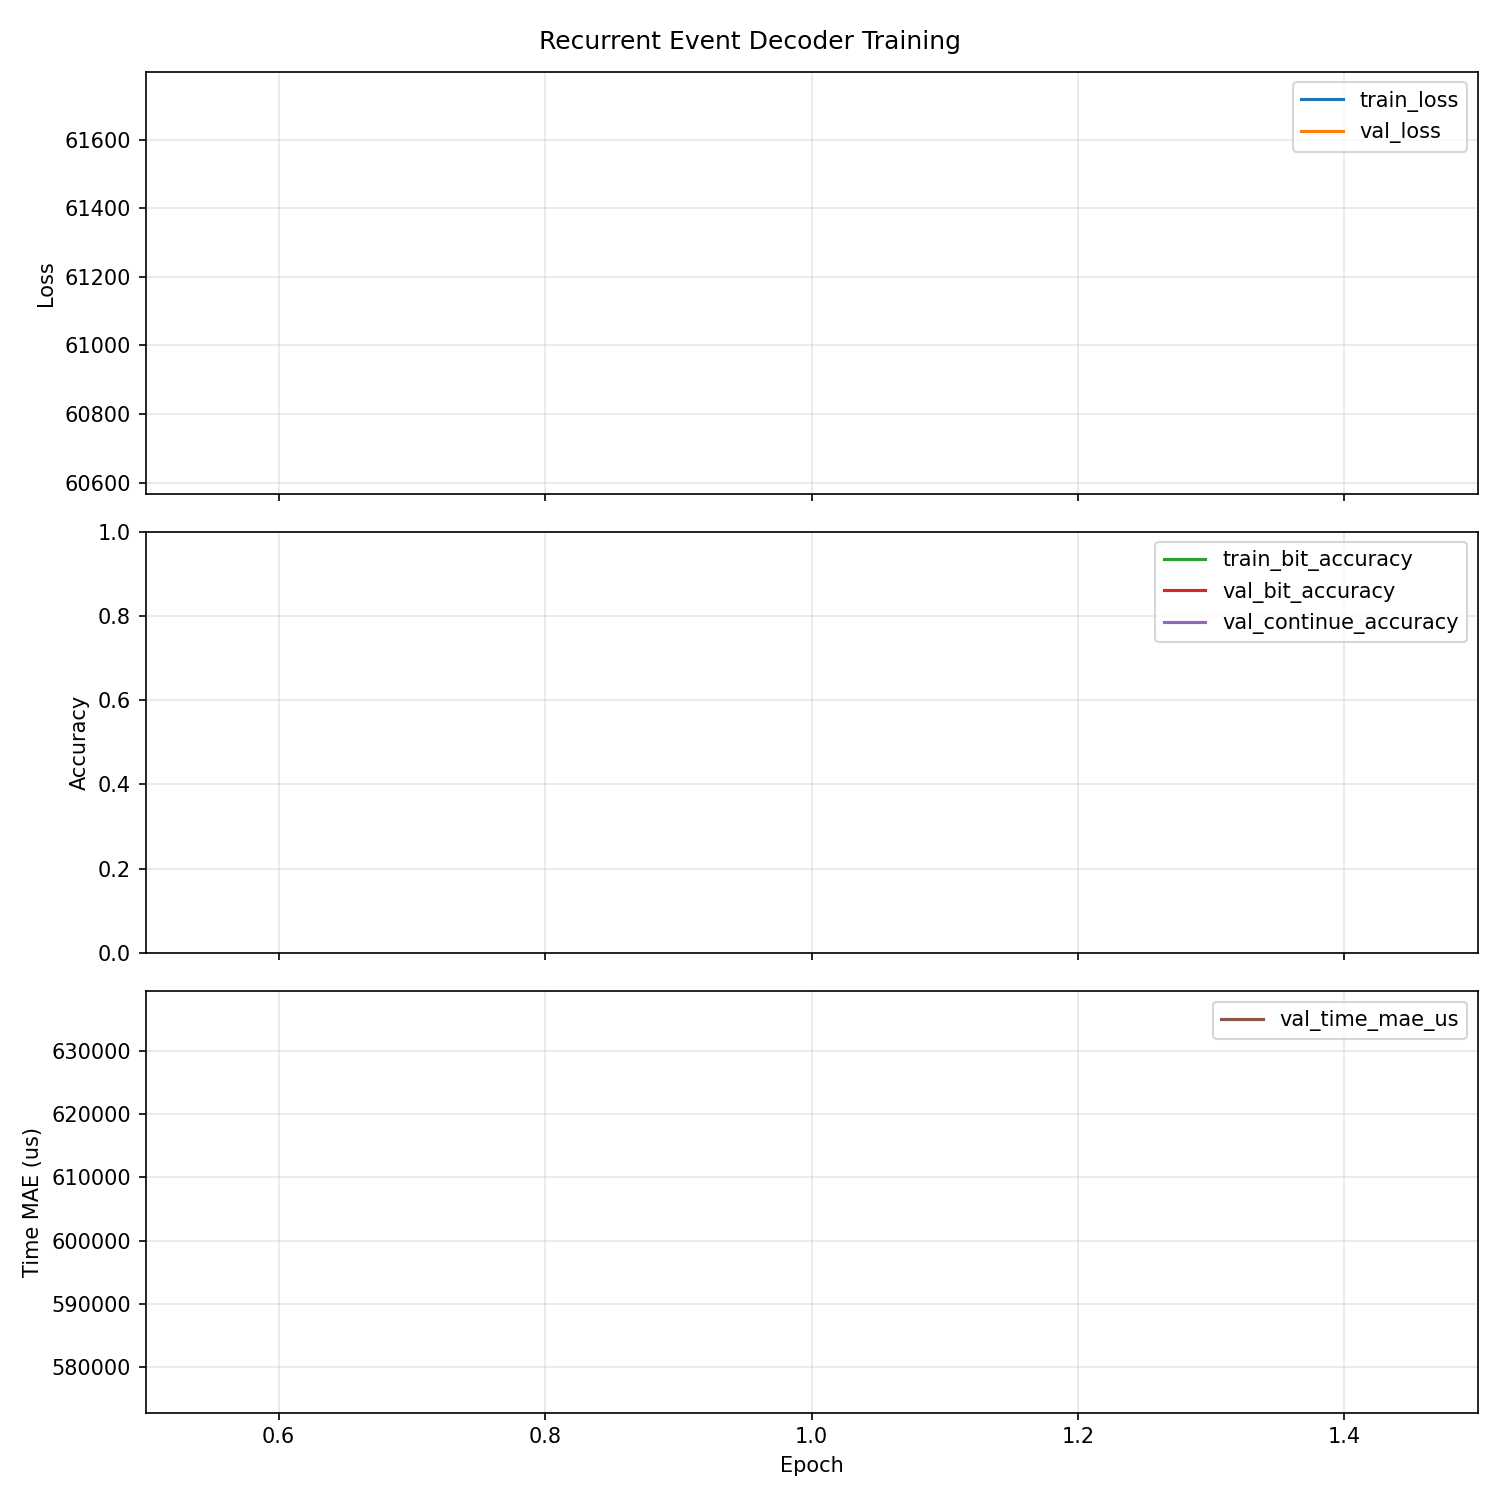
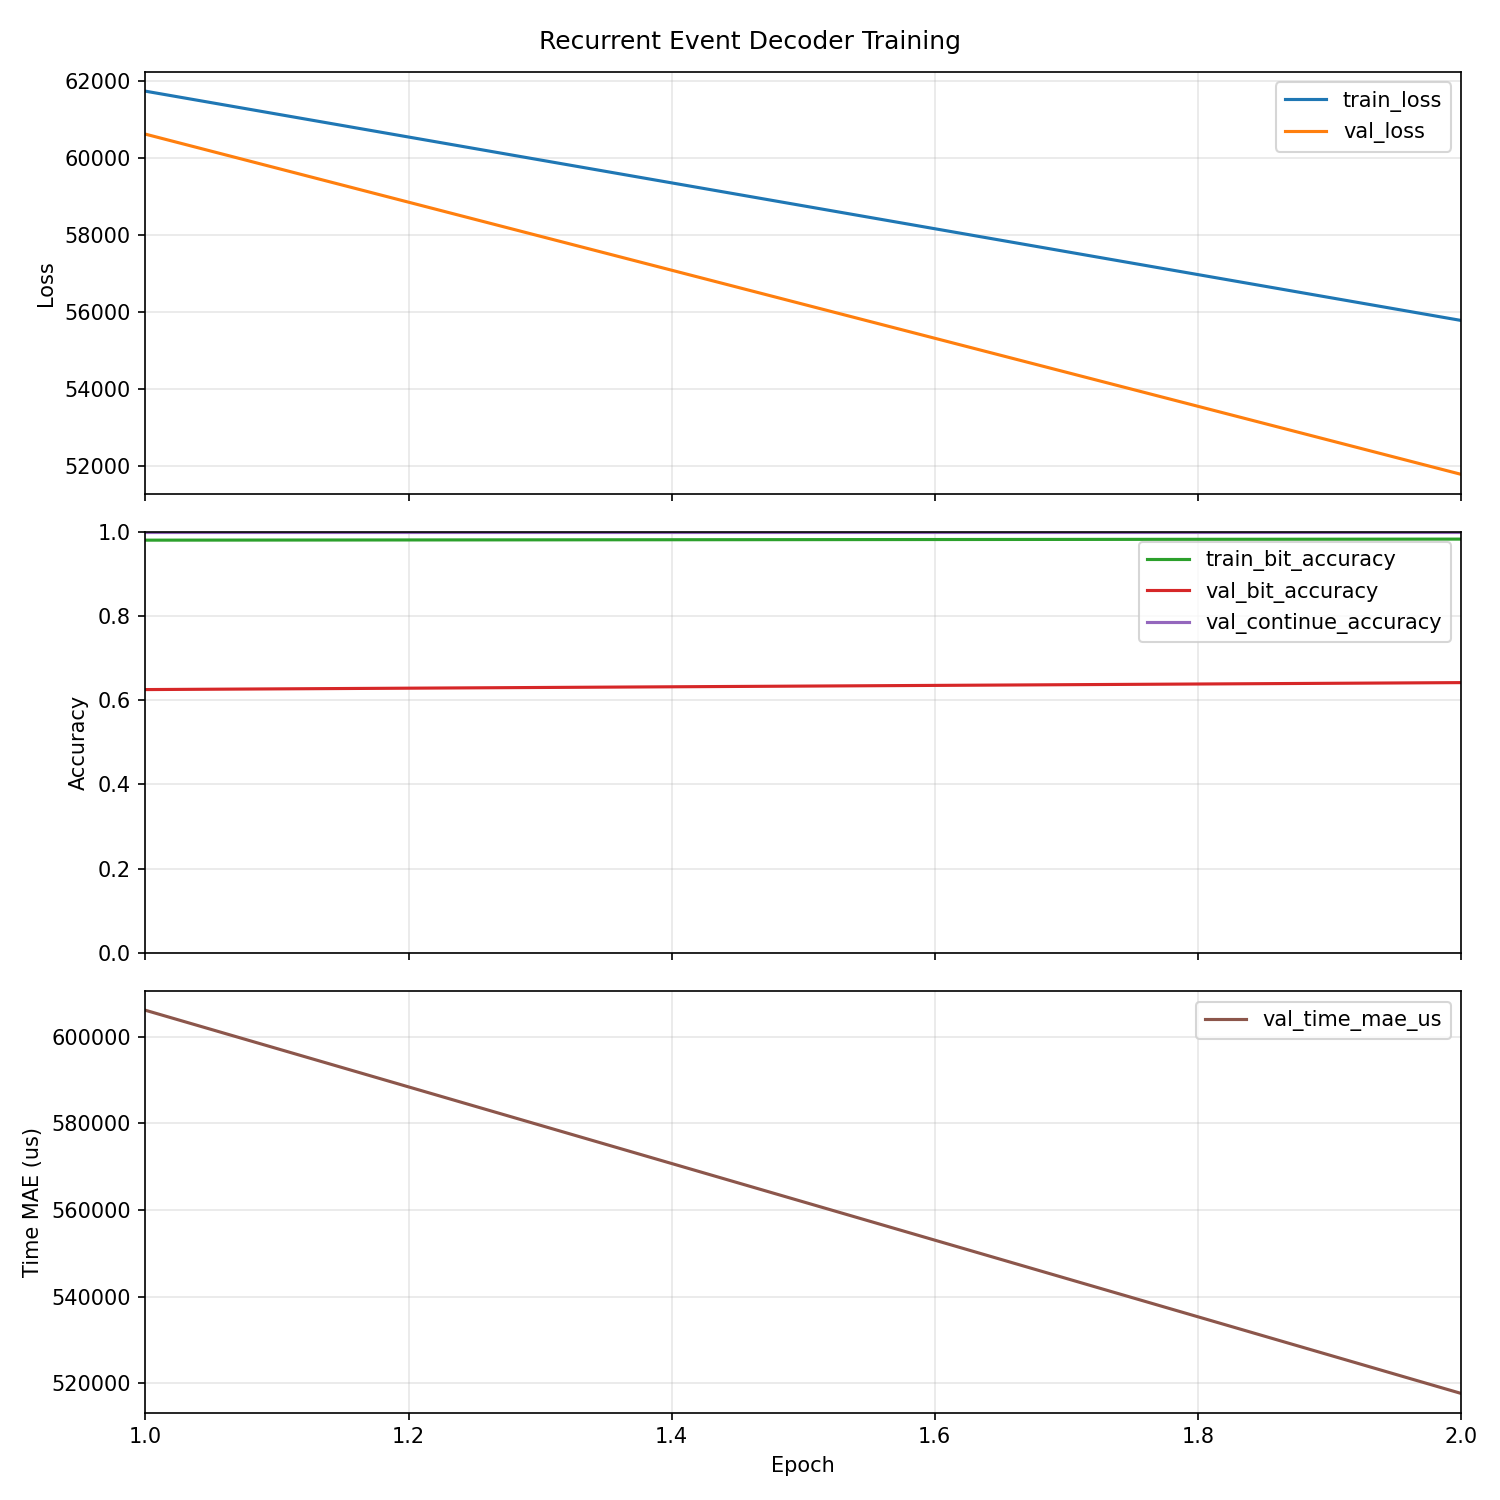
Reverted an issue.

diff --git a/recurrent_event_decoder/main.py b/recurrent_event_decoder/main.py
@@ -12,8 +12,7 @@ from recurrent_event_decoder.collate import recurrent_event_collate
 from recurrent_event_decoder.config import RecurrentEventConfig
 from recurrent_event_decoder.dataset import PreparedRecurrentEventDataset
 from recurrent_event_decoder.losses import (
-    build_continue_targets,
-    final_recurrent_event_vector_loss,
+    recurrent_event_vector_loss,
 )
 from recurrent_event_decoder.metrics import compute_recurrent_metrics
 from recurrent_event_decoder.model import RecurrentEventDecoder
@@ -235,20 +234,15 @@ def run_epoch(model, loader, optimizer, device, config, epoch, phase):
     with context:
         for batch in loader:
             batch = move_batch_to_device(batch, device)
-            final_step_mask = build_continue_targets(
+            outputs = model(batch.windows, batch.metadata, batch.valid_window_mask)
+            loss = recurrent_event_vector_loss(
+                outputs,
                 batch.targets,
                 batch.valid_window_mask,
                 config,
-            ) >= config.stop_threshold
-            outputs = model(batch.windows, batch.metadata, batch.valid_window_mask)
-            loss = final_recurrent_event_vector_loss(
-                outputs,
-                batch.targets,
-                final_step_mask,
-                config,
             )
 
-            if is_train and loss is not None:
+            if is_train:
                 optimizer.zero_grad()
                 loss.backward()
                 if config.grad_clip is not None:
@@ -261,7 +255,7 @@ def run_epoch(model, loader, optimizer, device, config, epoch, phase):
                 batch.valid_window_mask,
                 config,
             )
-            total_loss += loss.item() if loss is not None else 0.0
+            total_loss += loss.item()
             for key, value in metrics.items():
                 metric_sums[key] = metric_sums.get(key, 0.0) + float(value)
             batch_count += 1
